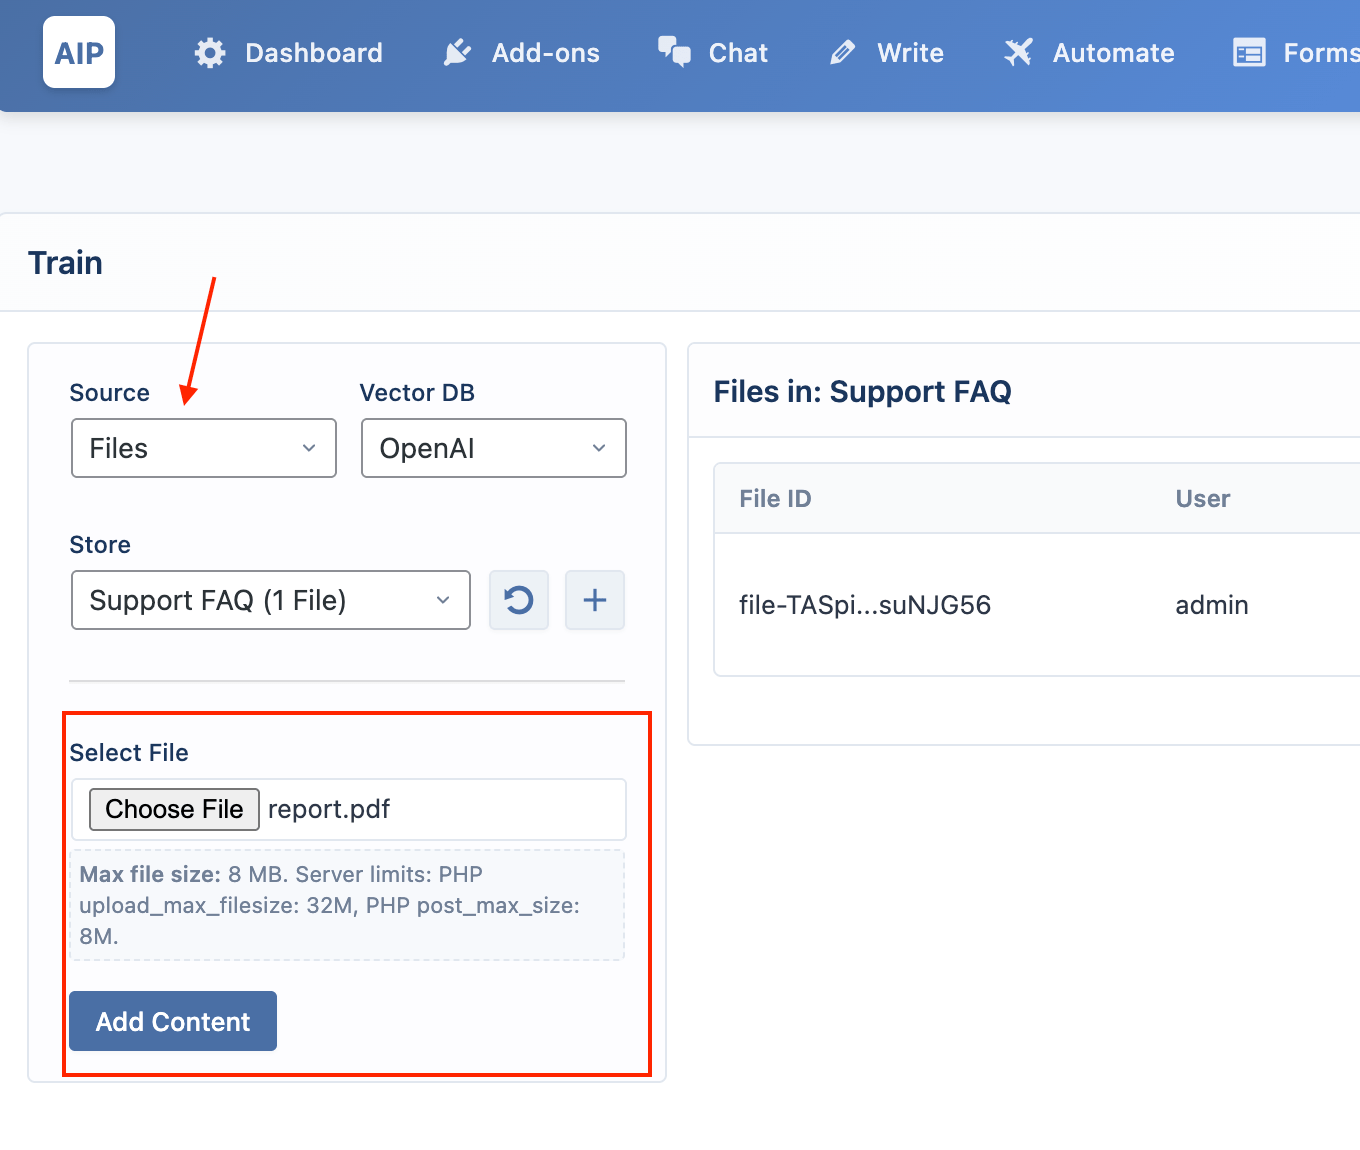
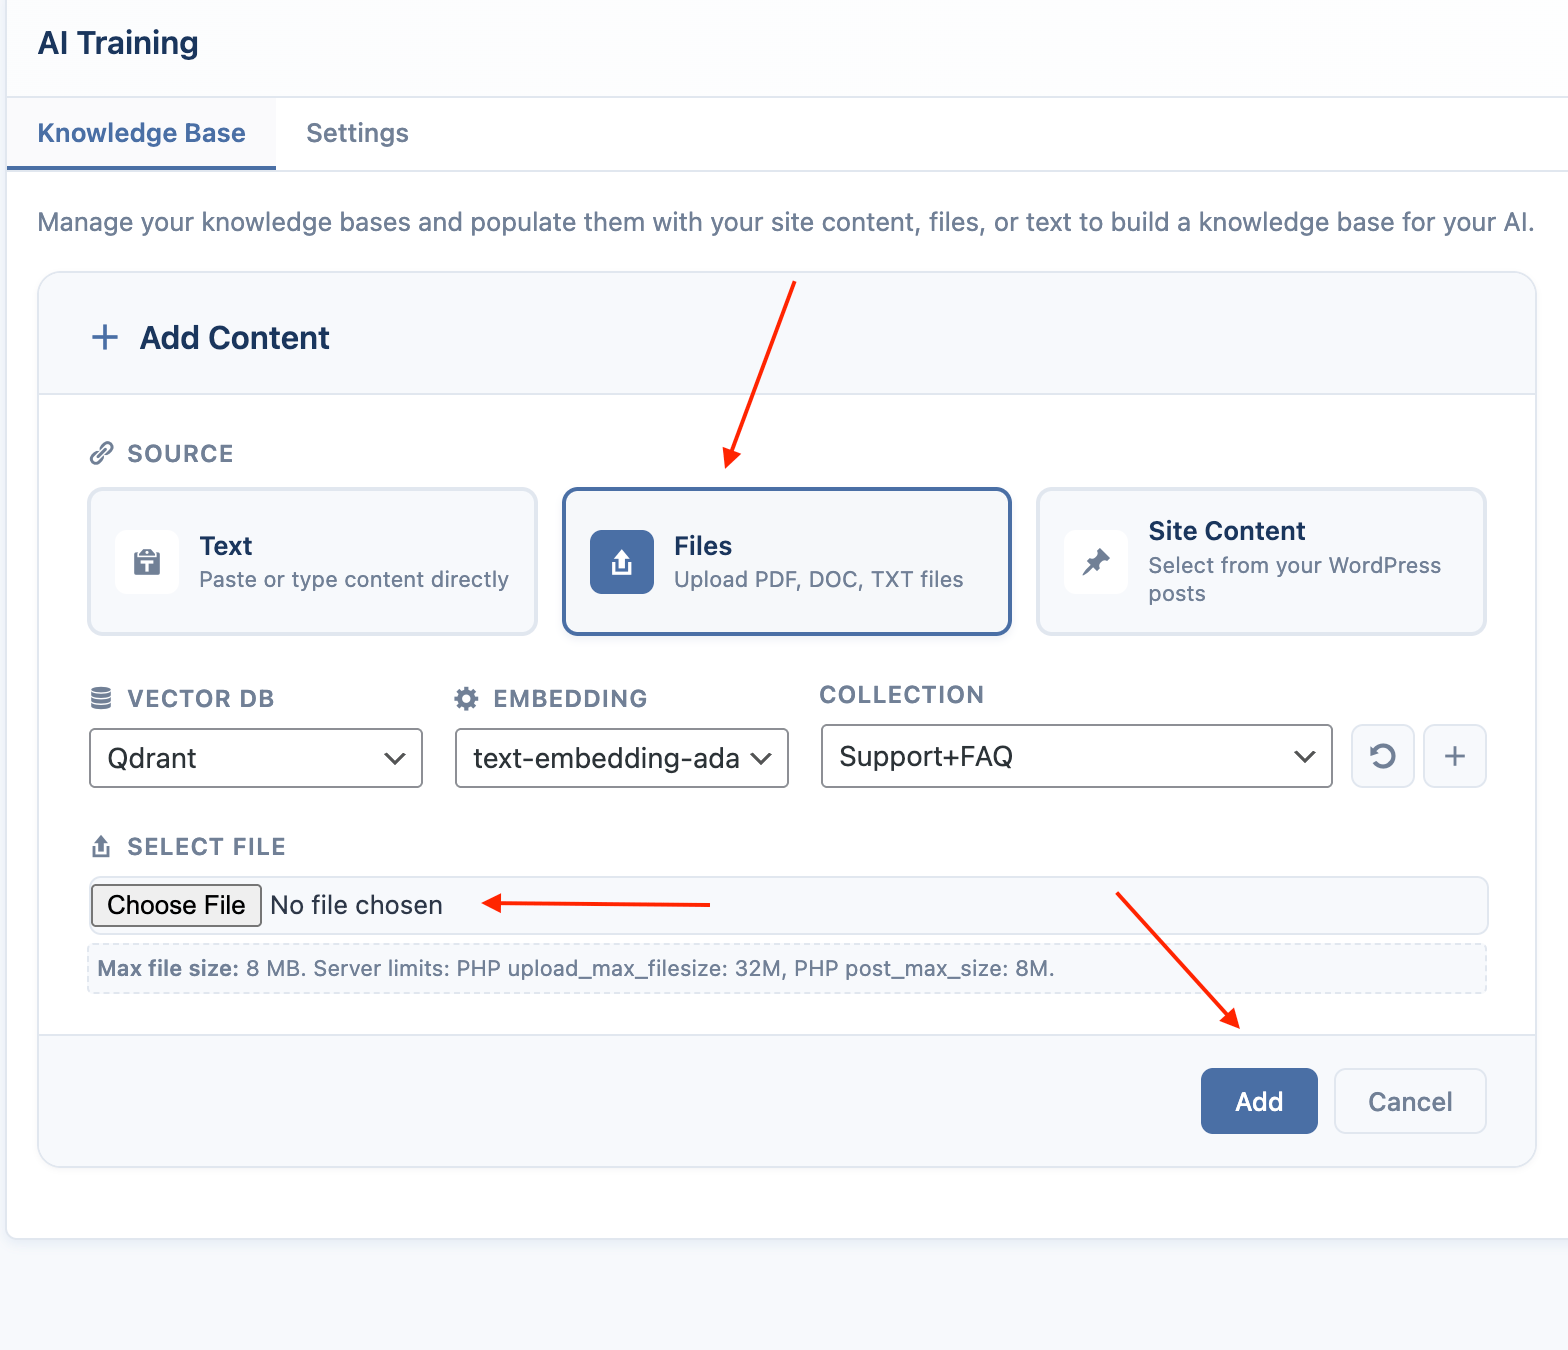
added express setup for chatbot and train module.

diff --git a/docs/train.md b/docs/train.md
@@ -14,6 +14,7 @@ import addcontentfile from '/img/train/add-content-file.png';
 import addcontentwp from '/img/train/add-content-wp.png';
 import embedding from '/img/train/embedding.png';
 import viewindex from '/img/train/view-index.png';
+import trainsettings from '/img/train/train-settings.png';
 
 # Knowledge Base / Training
 
@@ -36,18 +37,18 @@ Before creating a knowledge base, you must configure your vector database provid
 
 ## The Training Interface
 
-The training page has a simple two-column layout:
+The training page displays all of your existing knowledge bases as a grid of cards. From here, you can add new content or manage existing knowledge bases.
 
 <img src={trainui} />
 
--   **Left Column (Add Content):** This is where you choose your content source and target knowledge base.
--   **Right Column (Management):** This is where you view and manage the content of a selected knowledge base.
+-   **Add Content**: Opens a form where you can create a new knowledge base or add content to an existing one.
+-   **Sync**: Refreshes the list of knowledge bases from all your connected providers (OpenAI, Pinecone, Qdrant).
 
 ## Create a Knowledge Base
 
 A knowledge base is called a "Vector Store" for OpenAI, an "Index" for Pinecone, and a "Collection" for Qdrant.
 
-1.  In the left column, select the desired **Vector DB** provider (OpenAI, Pinecone, or Qdrant) from the dropdown.
+1.  Click **Add Content** button, select the desired **Vector DB** provider (OpenAI, Pinecone, or Qdrant) from the dropdown.
 2.  Click the **+** icon next to the "Target" dropdown.
 3.  An inline form will appear. Enter a descriptive name for your new knowledge base.
 
@@ -91,7 +92,7 @@ This is a Pro feature.
 4.  Check the boxes next to the posts/pages you want to index.
 5.  Click **Add Content**.
 
-### Embedding Model
+## Embedding Model
 
 When using Pinecone or Qdrant, you must select an **Embedding Model**. This model converts your text into vectors that the database can understand.
 
@@ -99,19 +100,52 @@ When using Pinecone or Qdrant, you must select an **Embedding Model**. This mode
 
 It is crucial to use the **same model** here as you will later in any Chatbot or AI Form that needs to search this knowledge base.
 
-## Manage Your Knowledge Base
+## Managing a Knowledge Base
 
-When you select a knowledge base from the "Target" dropdown, its details and management options will appear in the right-hand panel.
+When you click on a knowledge base card from the main grid, you are taken to its detail view.
 
--   **View Content**: For OpenAI, this panel lists all the files in your Vector Store. For Pinecone and Qdrant, it shows a log of recent indexing activity.
+-   **View Content**: This panel shows a log of all content that has been indexed into the knowledge base.
+-   **Search**: Click the `...` icon to open a search bar and test queries against your knowledge base.
+-   **Delete Knowledge Base**: Click the `...` icon to permanently delete the entire knowledge base. **This action cannot be undone.**
 
 <img src={viewindex} />
 
--   **Search**: Click the magnifying glass icon to open a search bar and test queries against your knowledge base.
--   **Delete Content**: For OpenAI, you can delete individual files from a Vector Store.
--   **Delete Knowledge Base**: Click the trash can icon to permanently delete the entire knowledge base. **This action cannot be undone.**
+The detail view shows records of all content that has been indexed into the knowledge base.
 
-## Use Your Knowledge Base
+| Column                | Description                                                                                                                                                                                                                                                                                                                        |
+|-----------------------|------------------------------------------------------------------------------------------------------------------------------------------------------------------------------------------------------------------------------------------------------------------------------------------------------------------------------------|
+| **Time**              | The date and time the item was indexed.                                                                                                                                                                                                                                                                                            |
+| **File ID / Point ID**| The unique identifier for the content within the vector database.                                                                                                                                                                                                                                                                    |
+| **Status**            | The current status of the item (e.g., `indexed`, `failed`).                                                                                                                                                                                                                                                                        |
+| **Type**              | The source of the content: `Site Content`, `Text`, or `File Upload`. For Pinecone and Qdrant, items uploaded by users from the frontend chatbot will be marked with a person icon <span class="dashicons dashicons-admin-users"></span>, indicating they are stored in a unique, isolated namespace to maintain conversational context. |
+| **Message**           | A summary of the indexing operation.                                                                                                                                                                                                                                                                                               |
+| **Embedding**         | The provider and model used to create the vector embedding (for Pinecone and Qdrant).                                                                                                                                                                                                                                                |
+| **Source**            | The original source of the content, such as a post title or filename.                                                                                                                                                                                                                                                               |
+| **Actions**           | - **Re-index**: For `Site Content`, this deletes the old entry and indexes the latest version of the post. <br/> - **View**: Opens a modal to show the exact text snippet that was indexed. <br/> - **Delete**: Deletes the record from both the vector database and the local logs. |
+
+
+## Advanced Content Indexing Controls
+
+The **Settings** tab within the Train module allows you to fine-tune what content gets indexed. This is a Pro feature.
+
+<img src={trainsettings} />
+
+This feature provides granular control over how your content is processed for AI training. Instead of indexing all available data by default, you can:
+
+- **Selective Field Indexing**: Choose which custom fields to include or exclude from the AI training dataset for each content type.
+- **Taxonomy Management**: Enable or disable specific taxonomies (categories, tags, custom taxonomies) on a per-content-type basis.
+- **WooCommerce Product Data**: For product content types, select which product attributes and data fields should be included in the training corpus.
+- **Custom AI Context Labels**: Define custom labels for each field that provide better context to the AI about what the data represents.
+- **Content Type Configuration**: Set up different indexing rules for posts, pages, custom post types, and WooCommerce products.
+- **Basic Label Customization**: Modify how core content elements (title, excerpt, content, source URL) are labeled for AI context.
+
+This is particularly useful for sites with extensive custom fields where you want to train the AI only on relevant data.
+
+#### General Settings
+
+- **Hide User-Uploaded Files**: When enabled, Vector Stores created automatically by users via the chatbot file upload feature will be hidden from the main Knowledge Base card grid. This helps keep your main view clean and focused on manually curated knowledge bases.
+
+## Using Your Knowledge Base
 
 Once your knowledge base is populated, you can connect it to other AIP modules:
 -   **Chatbots**: In the [Chatbot editor](/docs/context), go to the **Context** section to connect your knowledge base.

diff --git a/docs/Chat/context.md b/docs/Chat/context.md
@@ -13,6 +13,7 @@ import fileuploadaddon from '/img/chat/file-upload-addon.png';
 import fileuploadenable from '/img/chat/file-upload-enable.png';
 import fileuploaddemo from '/img/chat/file-upload-demo.png';
 import vectordbaddon from '/img/chat/vector-db-addon.png';
+import expresssetup from '/img/chat/express-setup.png';
 
 # Context
 
@@ -22,7 +23,7 @@ The **Context** section is where you give your chatbot access to external inform
 
 When this feature is enabled, the chatbot will use the current page's content as part of its contextual understanding.
 
-<img src={contentaware} width="600"/>
+<img src={contentaware} />
 
 If the page has an excerpt, that excerpt will be used directly as the bot’s context.
 
@@ -44,16 +45,16 @@ Before using this feature, you must first create and configure your Vector Store
 Pinecone and Qdrant are available as free addons, but they are disabled by default.
 To use them, go to the Addons page and activate the Vector DB addon first.
 
-<img src={vectordbaddon} width="600"/>
+<img src={vectordbaddon} />
 :::
 
 - **Enable Vector Store**: This must be checked to use your knowledge base.
 
-<img src={vectorenable} width="600"/>
+<img src={vectorenable} />
 
 - **Vector Provider**: Select the service where your knowledge base is stored (**OpenAI**, **Pinecone**, or **Qdrant**).
 
-<img src={vectorproviders} width="600"/>
+<img src={vectorproviders} />
 
 - **Store/Index/Collection**:
     -   For **OpenAI**, you can select one or more Vector Stores to use.
@@ -61,9 +62,24 @@ To use them, go to the Addons page and activate the Vector DB addon first.
     -   For **Qdrant**, you must select a specific Collection.
 - **Embedding Provider & Model**: If using Pinecone or Qdrant, you must select the same embedding provider and model that you used when creating the knowledge base.
 
-<img src={vectorsettings} width="600"/>
+<img src={vectorsettings} />
 
 - **Limit**: This sets the maximum number of relevant documents to fetch from the knowledge base to answer a user's question.
+
+## Add Content
+
+The easiest way to create a knowledge base for a specific chatbot is by using the **Add Content** button, located in the **General** accordion.
+
+<img src={expresssetup} />
+
+This button launches a streamlined wizard that will:
+1.  Analyze your site and suggest an appropriate vector database provider (e.g., OpenAI Vector Store).
+2.  Allow you to select which content types (e.g., Posts, Pages) you want to index.
+3.  Create a new, dedicated knowledge base for this chatbot.
+4.  Index all selected content in the background.
+5.  Automatically configure the **Vector Store** settings below to use the newly created knowledge base.
+
+This is the recommended one-click method for making a chatbot knowledgeable about your site's content.
 
 ## File Upload
 
